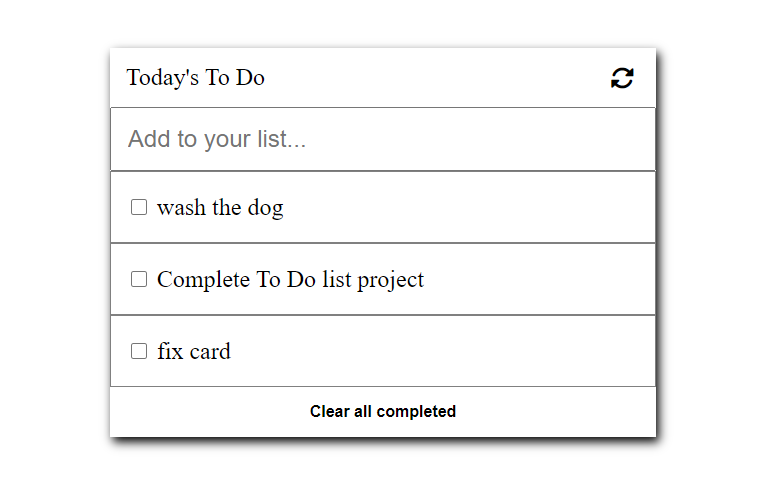
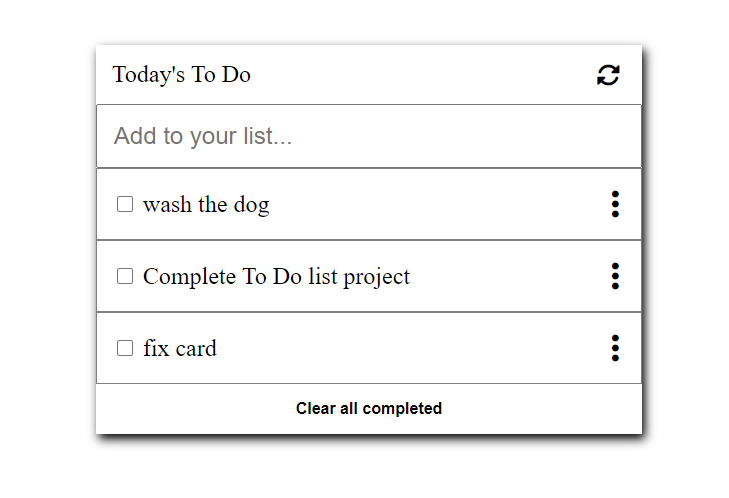
Fix i tags

Changed region(s): [[0.1207, 0.0904, 0.9053, 0.9036]]

diff --git a/src/components/addTask.js b/src/components/addTask.js
@@ -10,7 +10,7 @@ const addTask = (inputId, listId) => {
     const checkbox = document.createElement('input');
     const task = document.createElement('div');
     const buttonOptions = document.createElement('button');
-    buttonOptions.innerHTML = '<i class=`fa-solid fa-ellipsis-vertical`></i>';
+    buttonOptions.innerHTML = '<i class="fa-solid fa-ellipsis-vertical"></i>';
     checkbox.type = 'checkbox';
     checkbox.addEventListener('change', toggleTask);
     const label = document.createElement('label');

diff --git a/src/components/preChargedTasks.js b/src/components/preChargedTasks.js
@@ -7,7 +7,7 @@ const preChargedTask = (t) => {
   const checkbox = document.createElement('input');
   const task = document.createElement('div');
   const buttonOptions = document.createElement('button');
-  buttonOptions.innerHTML = '<i class=`fa-solid fa-ellipsis-vertical`></i>';
+  buttonOptions.innerHTML = '<i class="fa-solid fa-ellipsis-vertical"></i>';
   checkbox.type = 'checkbox';
   checkbox.addEventListener('change', toggleTask);
   const label = document.createElement('label');
